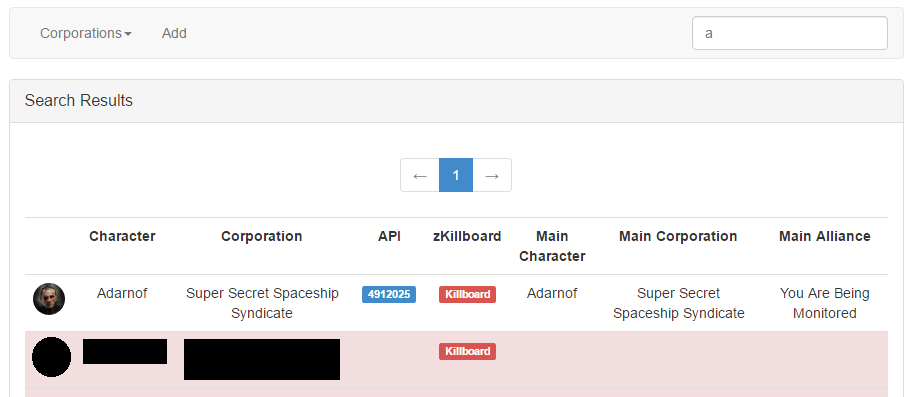
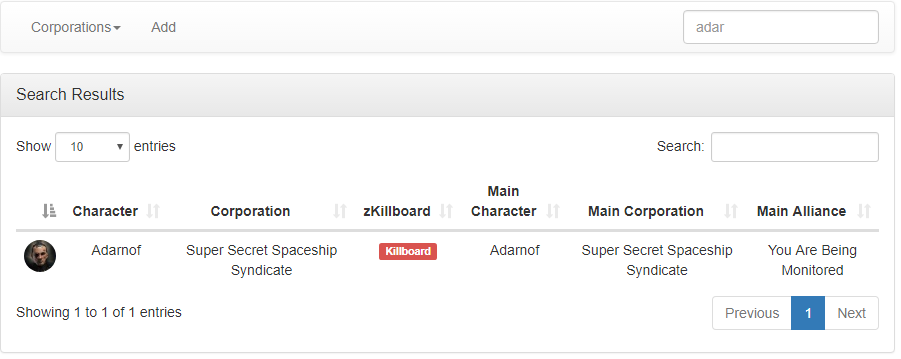
Update CorpStats documentation. Internalize all doc images.

diff --git a/docs/features/corpstats.md b/docs/features/corpstats.md
@@ -29,13 +29,7 @@ If it fails an error message will be displayed.
 
 This bar contains a dropdown menu of all available corps. If the user has the `add_corpstats` permission, a button to add a Corp Stats will be shown.
 
-On the right of this bar is a search field. Press enter to search. It checks all characters in all Corp Stats you have view permission to and returns search results. Generic searches (such as 'a') will be slow.
-
-### Registration Index
-
-![Registration Index](/_static/images/features/corpstats/api_index.png)
-
-This is a visual indication of the number of registered characters.
+On the right of this bar is a search field. Press enter to search. It checks all characters in all Corp Stats you have view permission to and returns search results.
 
 ### Last Update
 
@@ -45,17 +39,38 @@ Corp Stats automatically update every 6 hours. An update can be performed immedi
 
 Only superusers and the creator of the Corp Stat can trigger an immediate update.
 
-### Member List
+### Character Lists
+
+![lists](/_static/images/features/corpstats/lists.png)
+
+Three views are available:
+ - main characters and their alts
+ - registered characters and their main character
+ - unregistered characters
+
+Each view contains a sortable and searchable table. The number of listings shown can be increased with a dropdown selector. Pages can be changed using the controls on the bottom-right of the table. Each list is searchable at the top-right. Tables can be re-ordered by clicking on column headings.
+
+![table control locations](/_static/images/features/corpstats/table_controls.png)
+
+#### Main List
+
+![main list](/_static/images/features/corpstats/main_list.png)
+
+This list contains all main characters in registered in the selected corporation and their alts. Each character has a link to [zKillboard](https://zkillboard.com).
+
+
+#### Member List
 
 ![member list](/_static/images/features/corpstats/member_list.png)
 
-The list contains all characters in the corp. Red backgrounds means they are not registered in auth. If registered, and the user has the required permission to view APIs, a link to JackKnife will be present.
-A link to zKillboard is present for all characters.
+The list contains all characters in the corp. Red backgrounds means they are not registered in auth. A link to [zKillboard](https://zkillboard.com) is present for all characters.
 If registered, the character will also have a main character, main corporation, and main alliance field.
 
-This view is paginated: use the navigation arrows to view more pages (sorted alphabetically by character name), or search for a specific character.
+#### Unregistered List
 
-![pagination buttons](/_static/images/features/corpstats/pagination.png)
+![unregistered_list](/_static/images/features/corpstats/unregistered_list.png)
+
+This list contains all characters not registered on auth. Each character has a link to [zKillboard](https://zkillboard.com).
 
 ## Search View
 
@@ -65,7 +80,6 @@ This view is essentially the same as the Corp Stats page, but not specific to a 
 The search query is visible in the search box.
 Characters from all Corp Stats to which the user has view access will be displayed. APIs respect permissions.
 
-This view is paginated: use the navigation arrows to view more pages (sorted alphabetically by character name).
 
 ## Permissions
 

diff --git a/docs/installation/services/phpbb3.md b/docs/installation/services/phpbb3.md
@@ -61,11 +61,11 @@ Before users can see the forums, we need to remove the install directory
 ### Enabling Avatars
 AllianceAuth sets user avatars to their character portrait when the account is created or password reset. We need to allow external URLs for avatars for them to behave properly. Navigate to the admin control panel for phpbb3, and under the `General` tab, along the left navigation bar beneath `Board Configuration`, select `Avatar Settings`. Set `Enable Remote Avatars` to `Yes` and then `Submit`.
 
-![location of the remote avatar setting](http://i.imgur.com/eWrotRX.png)
+![location of the remote avatar setting](/_static/images/installation/services/phpbb3/avatar_settings.png)
 
 You can allow members to overwrite the portrait with a custom image if desired. Navigate to `Users and Groups`, `Group Permissions`, select the appropriate group (usually `Member` if you want everyone to have this ability), expand `Advanced Permissions`, under the `Profile` tab, set `Can Change Avatars` to `Yes`, and press `Apply Permissions`.
 
-![location of change avatar setting](http://i.imgur.com/Nc6Rzo9.png)
+![location of change avatar setting](/_static/images/installation/services/phpbb3/avatar_permissions.png)
 
 ## Setup Complete
 You’ve finished the steps required to make AllianceAuth work with phpBB. Play around with it and make it your own.

diff --git a/docs/features/permissions_tool.md b/docs/features/permissions_tool.md
@@ -18,7 +18,7 @@ When a user has access to the tool they will see the "Permissions Audit" menu it
 
 The first page gives you a general overview of permissions and how many users have access to each permission.
 
-![permissions overview](https://i.imgur.com/XALVFtc.png)
+![permissions overview](/_static/images/features/permissions_tool/overview.png)
 
 **App**, **Model** and **Code Name** contain the internal details of the permission while **Name** contains the name/description you'll see in the admin panel.
 
@@ -34,6 +34,6 @@ Clicking on the **Code Name** link will take you to the [Permissions Audit Page]
 
 The permissions audit page will give you an overview of all the users who have access to this permission either directly or granted via group membership.
 
-![permissions audit](https://i.imgur.com/XjnfC9Z.png)
+![permissions audit](/_static/images/features/permissions_tool/audit.png)
 
 Please note that users may appear multiple times if this permission is granted via multiple sources.

diff --git a/docs/installation/auth/cloudflare.md b/docs/installation/auth/cloudflare.md
@@ -26,7 +26,7 @@ CloudFlare blocks ports outside 80 and 443 on hosts it protects. This means, if 
 
 Now we need to configure the https redirect to force all traffic to https. Along the top bar of CloudFlare, select `Page Rules`. Add a new rule, Pattern is example.com, toggle the `Always use https` to ON, and save. It’ll take a few minutes to propagate. 
 
-![infographic](http://i.stack.imgur.com/VUBvo.jpg)
+![infographic](/_static/images/installation/auth/cloudflare/page_rules.jpg)
 
 ## Update Auth URLs
 

diff --git a/docs/development/index.md b/docs/development/index.md
@@ -6,4 +6,5 @@
     documentation
     integrating-services
     menu-hooks
+    url-hooks
 ```
